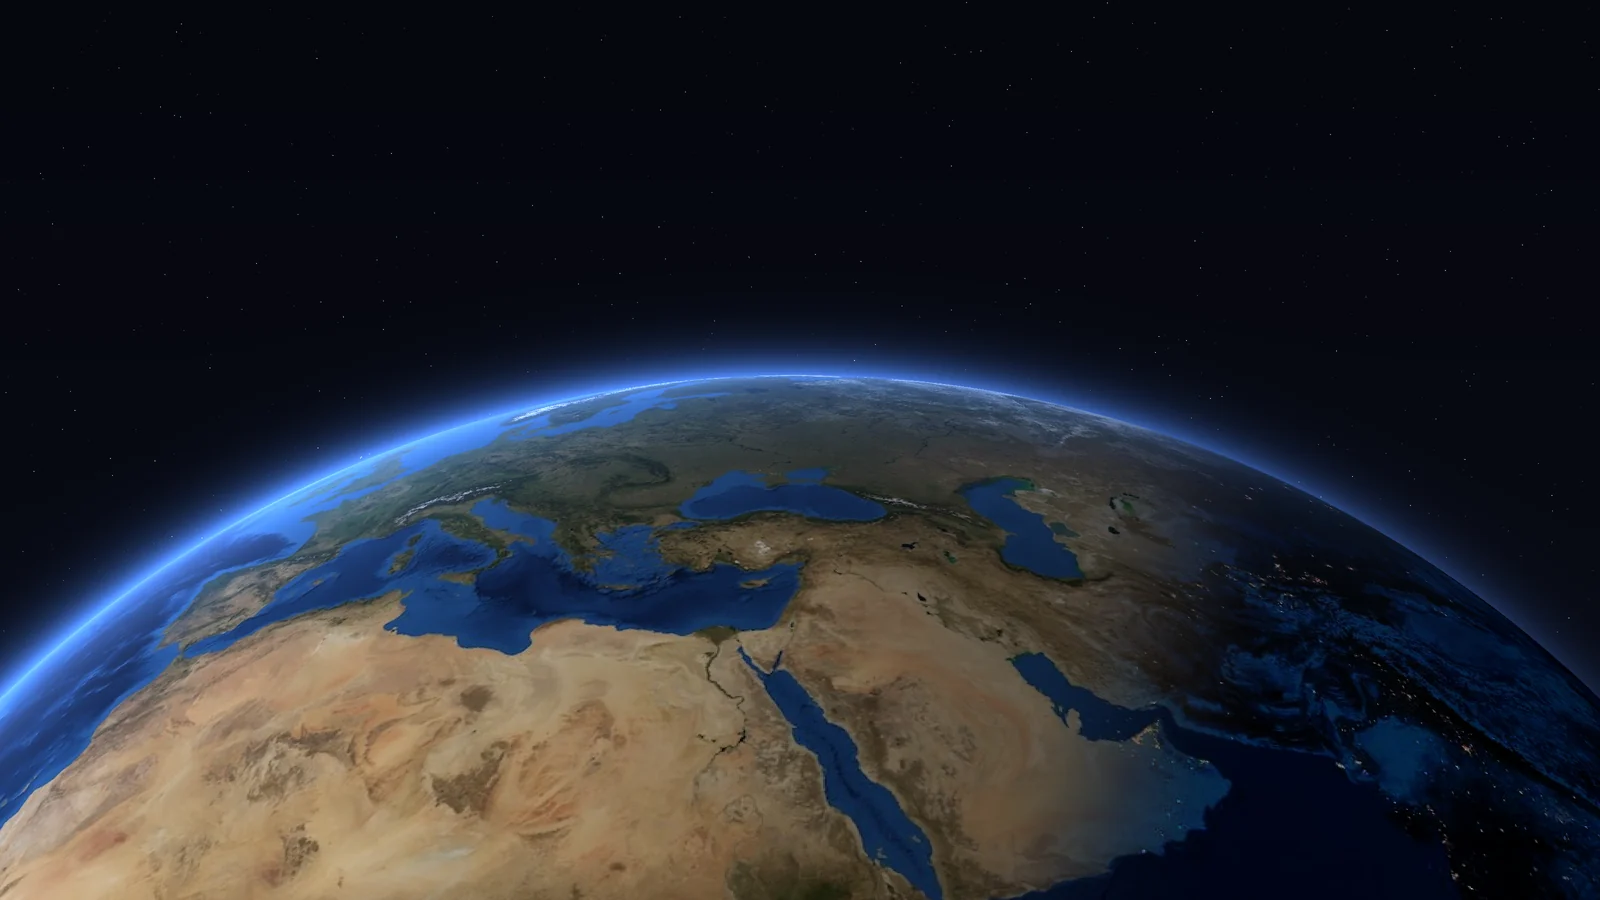
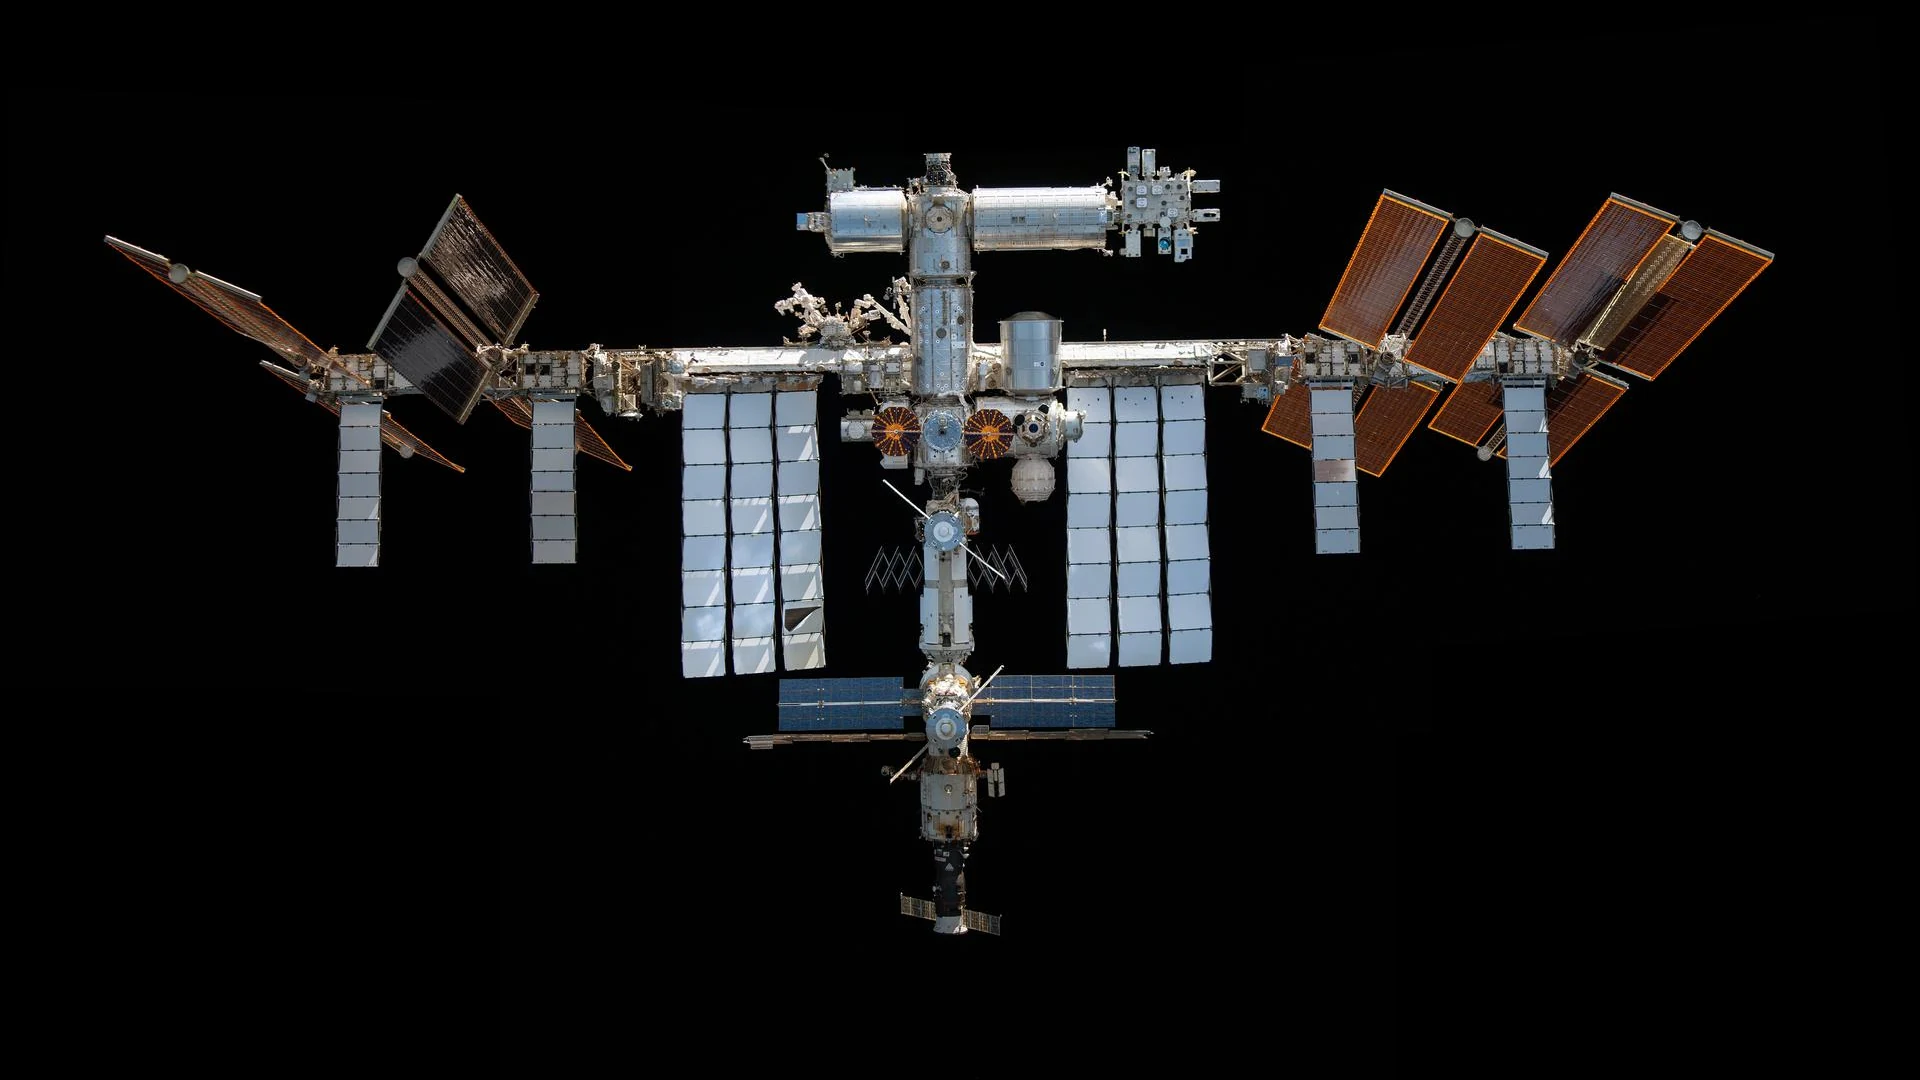
Use a photo of the ISS as the Data Centers in Space cover

diff --git a/src/content/blog/data-centers-in-space.md b/src/content/blog/data-centers-in-space.md
@@ -3,7 +3,7 @@ title: "Data Centers in Space: Physically Possible, Economically Pointless, for 
 description: "Not impossible. Just not the easy fix for AI’s power problem it’s being sold as by elon."
 pubDate: 2026-11-04
 heroImage: "../../assets/blog/data-centers-in-space/hero.webp"
-heroAlt: "Earth seen from orbit at dusk: the Mediterranean, the Red Sea and Arabia in daylight, with night and city lights falling across Iran and India"
+heroAlt: "The International Space Station against black space, with its solar array wings and white radiator panels spread out on either side"
 tags: ["AI", "Space", "Data Centers", "Opinion"]
 ---
 
